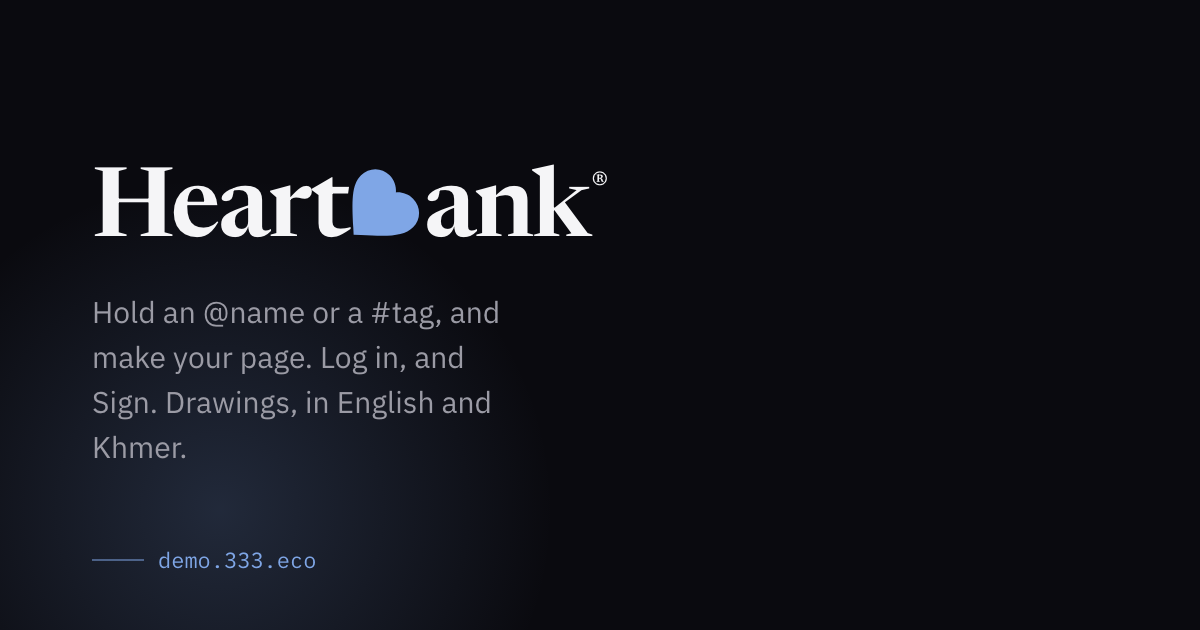
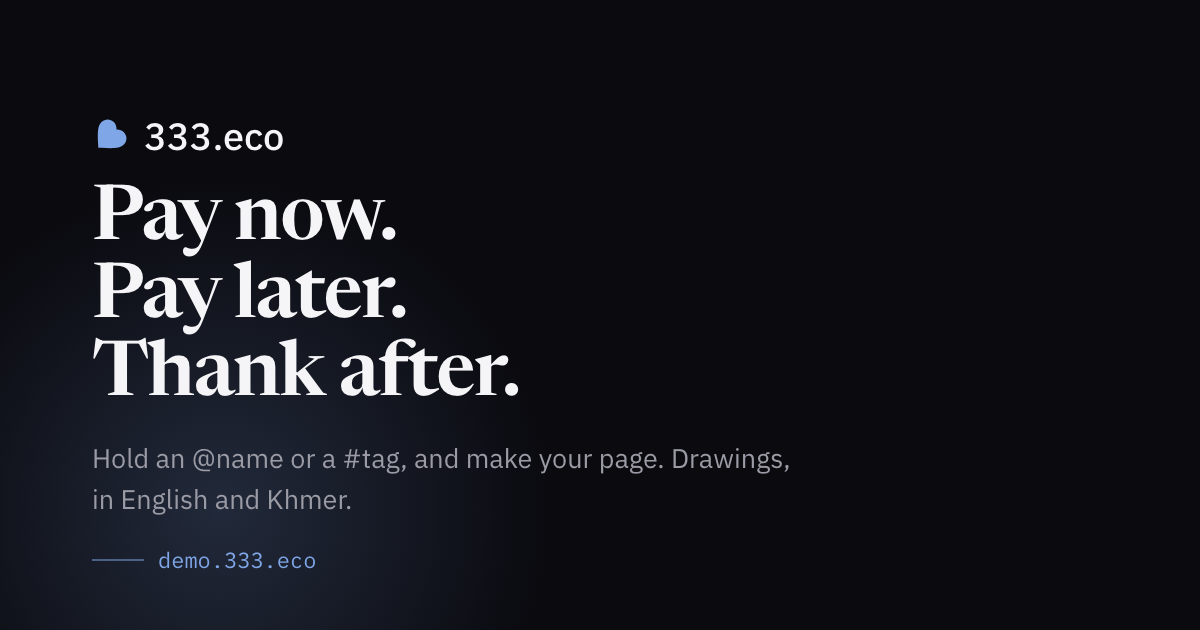
Preview card: 333.eco and Pay now, Pay later, Thank after; its address carries its hash

Changed region(s): [[0.0617, 0.181, 0.5242, 0.6635], [0.0617, 0.6937, 0.6475, 0.754], [0.0617, 0.7841, 0.3083, 0.8143]]

diff --git a/index.html b/index.html
@@ -14,19 +14,19 @@
 <meta property="og:url" content="https://demo.333.eco/">
 <meta property="og:site_name" content="b.333.eco drawings">
 <meta property="og:title" content="333.eco: drawings">
-<meta property="og:description" content="The B.333.eco screens, drawn in English and Khmer. These are drawings. They charge nobody.">
-<meta property="og:image" content="https://demo.333.eco/og.png">
+<meta property="og:description" content="Hold an @name or a #tag, and make your page. The 333.eco screens, drawn in English and Khmer. These are drawings. They charge nobody.">
+<meta property="og:image" content="https://demo.333.eco/og.png?v=d95322ad">
 <meta property="og:image:width" content="1200">
 <meta property="og:image:height" content="630">
-<meta property="og:image:alt" content="Log in and Sign with HeartBank on a dark ground, the B-Emblem standing in for the B.">
+<meta property="og:image:alt" content="333.eco beside the B-Emblem, over the words Pay now. Pay later. Thank after.">
 <link rel="manifest" href="site.webmanifest">
 <link rel="icon" type="image/svg+xml" href="favicon.svg">
 <link rel="icon" type="image/png" sizes="96x96" href="favicon-96x96.png">
 <link rel="apple-touch-icon" sizes="180x180" href="apple-touch-icon.png">
 <meta name="description" content="Drawings of the B.333.eco screens: Log in with HeartBank proves who you are; Sign with HeartBank puts your name to one file. English and Khmer.">
 <meta name="twitter:title" content="333.eco: drawings">
-<meta name="twitter:description" content="The B.333.eco screens, drawn in English and Khmer. These are drawings. They charge nobody.">
-<meta name="twitter:image" content="https://demo.333.eco/og.png">
+<meta name="twitter:description" content="Hold an @name or a #tag, and make your page. The 333.eco screens, drawn in English and Khmer. These are drawings. They charge nobody.">
+<meta name="twitter:image" content="https://demo.333.eco/og.png?v=d95322ad">
 <meta name="twitter:card" content="summary_large_image">
 <meta name="theme-color" content="#0f52ba">
 <style>[hidden]{display:none!important}

diff --git a/build-index.py b/build-index.py
@@ -28,19 +28,19 @@ page = """<!doctype html>
 <meta property="og:url" content="https://demo.333.eco/">
 <meta property="og:site_name" content="b.333.eco drawings">
 <meta property="og:title" content="333.eco: drawings">
-<meta property="og:description" content="The B.333.eco screens, drawn in English and Khmer. These are drawings. They charge nobody.">
-<meta property="og:image" content="https://demo.333.eco/og.png">
+<meta property="og:description" content="Hold an @name or a #tag, and make your page. The 333.eco screens, drawn in English and Khmer. These are drawings. They charge nobody.">
+<meta property="og:image" content="https://demo.333.eco/og.png?v=@OGV@">
 <meta property="og:image:width" content="1200">
 <meta property="og:image:height" content="630">
-<meta property="og:image:alt" content="Log in and Sign with HeartBank on a dark ground, the B-Emblem standing in for the B.">
+<meta property="og:image:alt" content="333.eco beside the B-Emblem, over the words Pay now. Pay later. Thank after.">
 <link rel="manifest" href="site.webmanifest">
 <link rel="icon" type="image/svg+xml" href="favicon.svg">
 <link rel="icon" type="image/png" sizes="96x96" href="favicon-96x96.png">
 <link rel="apple-touch-icon" sizes="180x180" href="apple-touch-icon.png">
 <meta name="description" content="Drawings of the B.333.eco screens: Log in with HeartBank proves who you are; Sign with HeartBank puts your name to one file. English and Khmer.">
 <meta name="twitter:title" content="333.eco: drawings">
-<meta name="twitter:description" content="The B.333.eco screens, drawn in English and Khmer. These are drawings. They charge nobody.">
-<meta name="twitter:image" content="https://demo.333.eco/og.png">
+<meta name="twitter:description" content="Hold an @name or a #tag, and make your page. The 333.eco screens, drawn in English and Khmer. These are drawings. They charge nobody.">
+<meta name="twitter:image" content="https://demo.333.eco/og.png?v=@OGV@">
 <meta name="twitter:card" content="summary_large_image">
 <meta name="theme-color" content="#0f52ba">
 <style>[hidden]{display:none!important}
@@ -85,6 +85,9 @@ document.getElementById("share").addEventListener("click", async () => {
 """ % rows
 for _p, _k in (("L", "bg"), ("L", "ink"), ("L", "ink-dim"), ("L", "line"), ("D", "bg"), ("D", "ink"), ("D", "ink-dim"), ("D", "line")):
     page = page.replace("@%s_%s@" % (_p, _k.upper().replace("-", "_")), tok("%s-%s" % (_p.lower(), _k)))
+# The card's address carries its own hash, so a new card is a new URL to every preview cache (run build-og.py first).
+_og = os.path.join(HERE, "og.png")
+page = page.replace("@OGV@", hashlib.sha256(io.open(_og, "rb").read()).hexdigest()[:8] if os.path.exists(_og) else "0")
 assert "@L_" not in page and "@D_" not in page, "unfilled brand placeholder"
 io.open(os.path.join(HERE, "index.html"), "w", encoding="utf-8").write(page)
 print("index.html written: %d artboards" % len(boards))

diff --git a/build-og.py b/build-og.py
@@ -33,7 +33,7 @@ SHELL = """<!doctype html><html><head><meta charset="utf-8">
   html,body{width:1200px;height:630px;overflow:hidden}
   body{background:@D_BG@;color:@D_INK@;
        font-family:"IBM Plex Sans",system-ui,sans-serif;
-       display:flex;flex-direction:column;justify-content:center;
+       display:flex;flex-direction:column;justify-content:center;padding-bottom:40px;
        padding:0 92px;position:relative;-webkit-font-smoothing:antialiased}
   /* one soft accent bloom, bottom-left, so the card is not a flat rectangle */
   body::before{content:"";position:absolute;left:-160px;bottom:-260px;width:760px;height:760px;
@@ -45,6 +45,9 @@ SHELL = """<!doctype html><html><head><meta charset="utf-8">
       margin-left:-.09em;margin-right:-.04em}
   .reg{font-size:.34em;vertical-align:1.3em;font-weight:500;margin-left:.06em}
   p{font-size:30px;line-height:1.5;color:@D_INK_DIM@;max-width:23ch}
+  .site{display:flex;align-items:center;gap:14px;font-size:38px;font-weight:500;color:@D_INK@;margin-bottom:22px}
+  .site .em{margin:0;vertical-align:0}
+  .wide{max-width:44ch;font-size:27px}
   .km{font-family:"Noto Sans Khmer","IBM Plex Sans",sans-serif}
   .foot{position:absolute;left:92px;bottom:56px;display:flex;align-items:center;gap:14px;
         font-family:"IBM Plex Mono",ui-monospace,monospace;font-size:22px;color:#7fa6e6}
@@ -60,13 +63,12 @@ def emblem(size_em=".92em"):
 
 
 CARDS = {
+    # The registry leads: 333.eco is the B-Registry's home, so the card names the site, not a body's wordmark.
     "og.png": '<div class="inner">'
-              '<h1 style="font-size:96px">Heart' + emblem() + 'ank'
-              '<span class="reg">&#174;</span></h1>'
-              '<p>Hold an @name or a #tag, and make your page. Log in, and Sign. '
-              'Drawings, in English and Khmer.</p></div>',
+              '<div class="site">' + emblem("1em") + '333.eco</div>'
+              '<h1 style="font-size:76px;margin-bottom:22px">Pay now.<br>Pay later.<br>Thank after.</h1>'
+              '<p class="wide">Hold an @name or a #tag, and make your page. Drawings, in English and Khmer.</p></div>',
 }
-
 
 def main():
     if not os.path.exists(CHROME):

diff --git a/README.md b/README.md
@@ -13,8 +13,8 @@ python3 -m http.server 8333 &      # measure.py reads the boards over HTTP
 python3 build-boards.py            # the boards + board.css + canvas.json, from the brand layer
 python3 measure.py                 # each board's real height → heights.json (a Khmer screen is never cut)
 python3 build-boards.py            # again, so canvas.json carries the measured heights
+python3 build-og.py                # the link-preview card (before the index: the index stamps its hash)
 python3 build-index.py && python3 build-wall.py   # the front door and the wall, generated from canvas.json
-python3 build-og.py                # the link-preview card
 node scripts/check-brand.mjs       # the vendored brand layer still matches brand.lock
 ```
 
